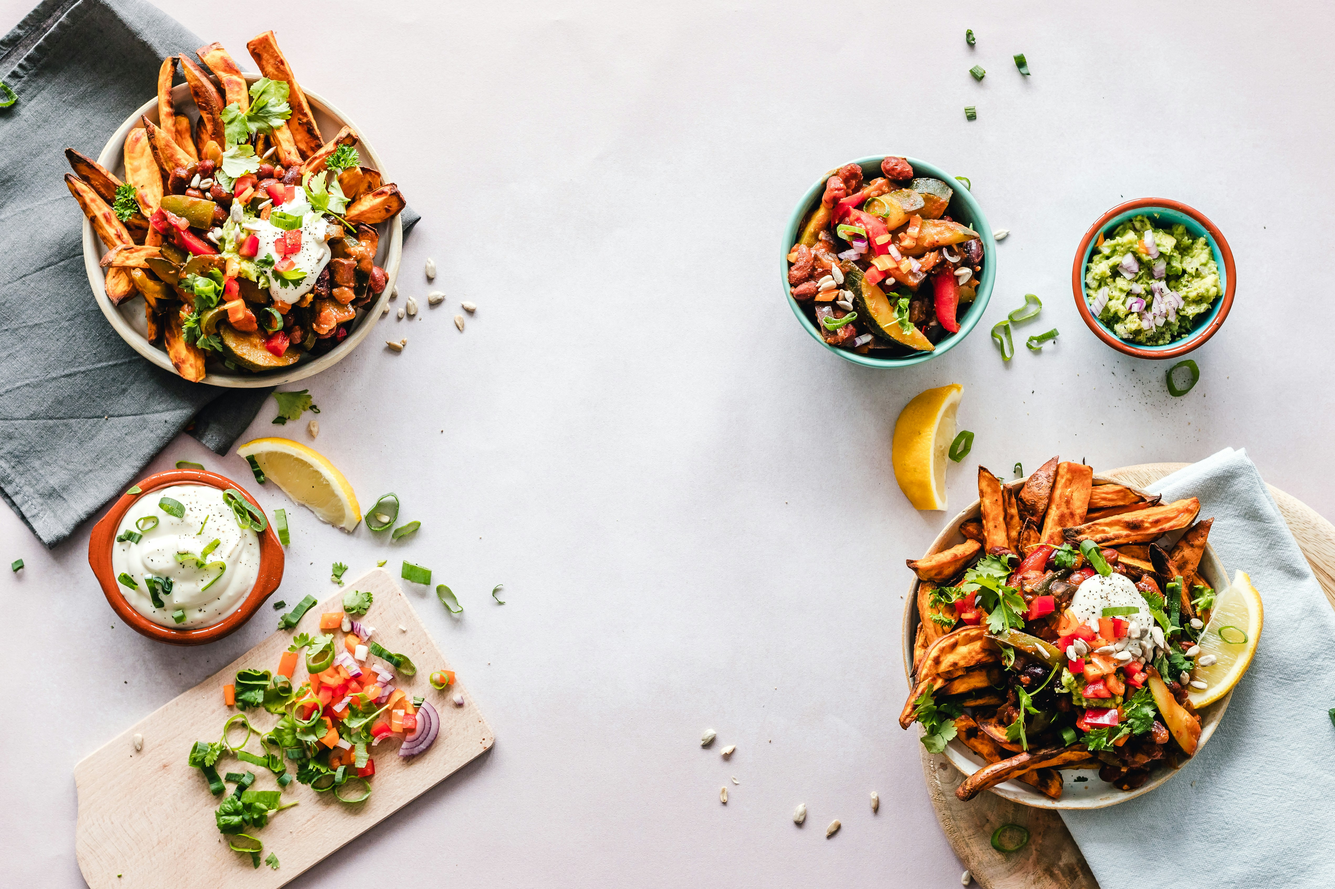
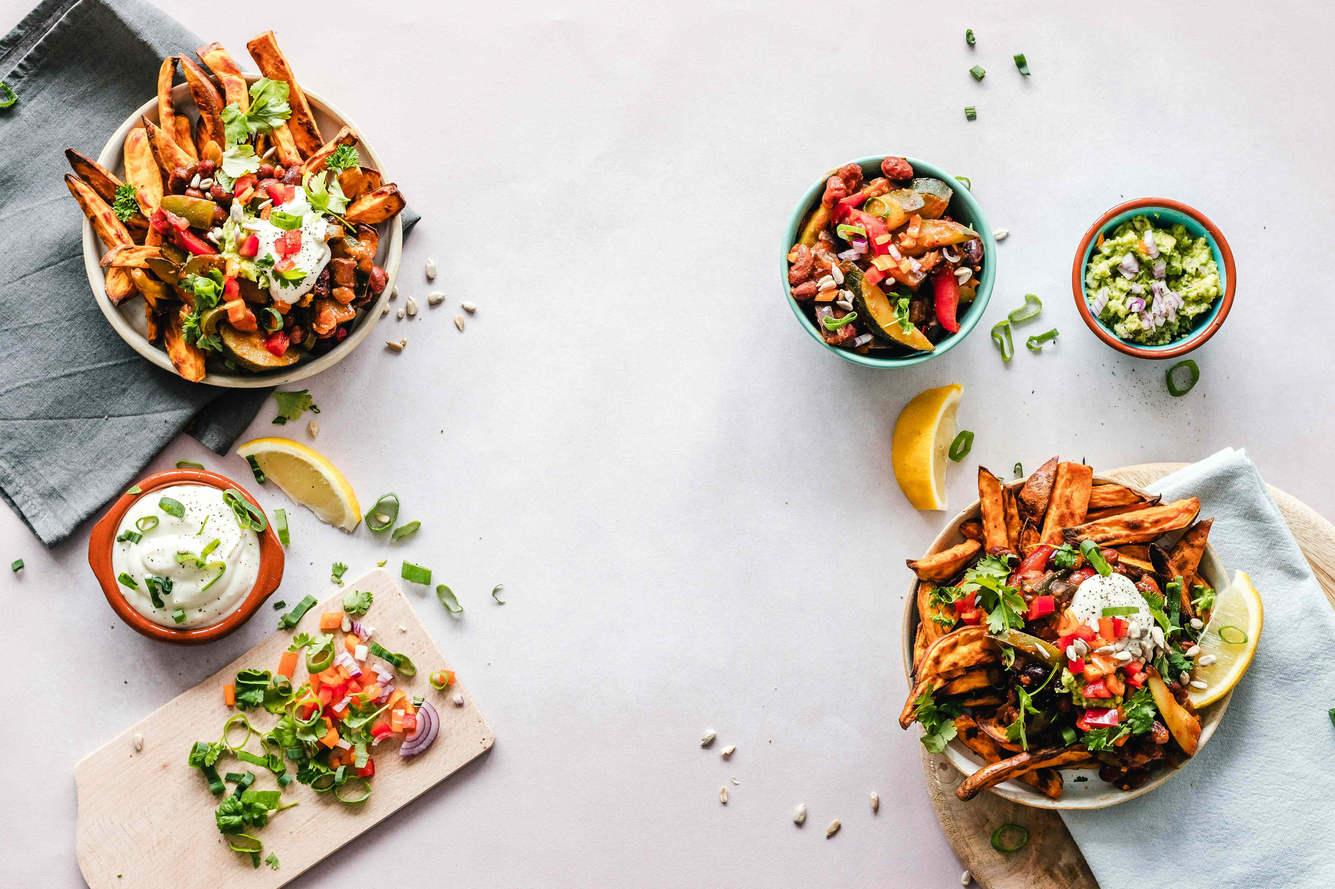
SCRUM-60: https://healthybite.atlassian.net/browse/SCRUM-60

diff --git a/repository/healthybite/src/pages/UserProfile/UserProfile.js b/repository/healthybite/src/pages/UserProfile/UserProfile.js
@@ -1,6 +1,6 @@
 import React,{useEffect, useState} from 'react'
 import NavBar from '../../components/NavBar'
-import userImg from '../../assets/userImg.png'
+import userImg from '../../assets/userImg.jpg'
 import { fetchUser } from '../../firebaseService'
 import { FontAwesomeIcon } from '@fortawesome/react-fontawesome'
 import { faPenToSquare, faArrowDown, faKey, faTrash } from '@fortawesome/free-solid-svg-icons'; 

diff --git a/repository/healthybite/src/pages/Login/Login.js b/repository/healthybite/src/pages/Login/Login.js
@@ -1,5 +1,5 @@
 import React, {useState,useEffect} from "react";
-import loginImg from '../../assets/login.png'
+import loginImg from '../../assets/login.jpg'
 import loginMobile from '../../assets/loginMobile.png'
 import Input from "../../components/Input";
 import { createUserWithEmailAndPassword,signInWithEmailAndPassword,sendPasswordResetEmail ,fetchSignInMethodsForEmail} from 'firebase/auth';
